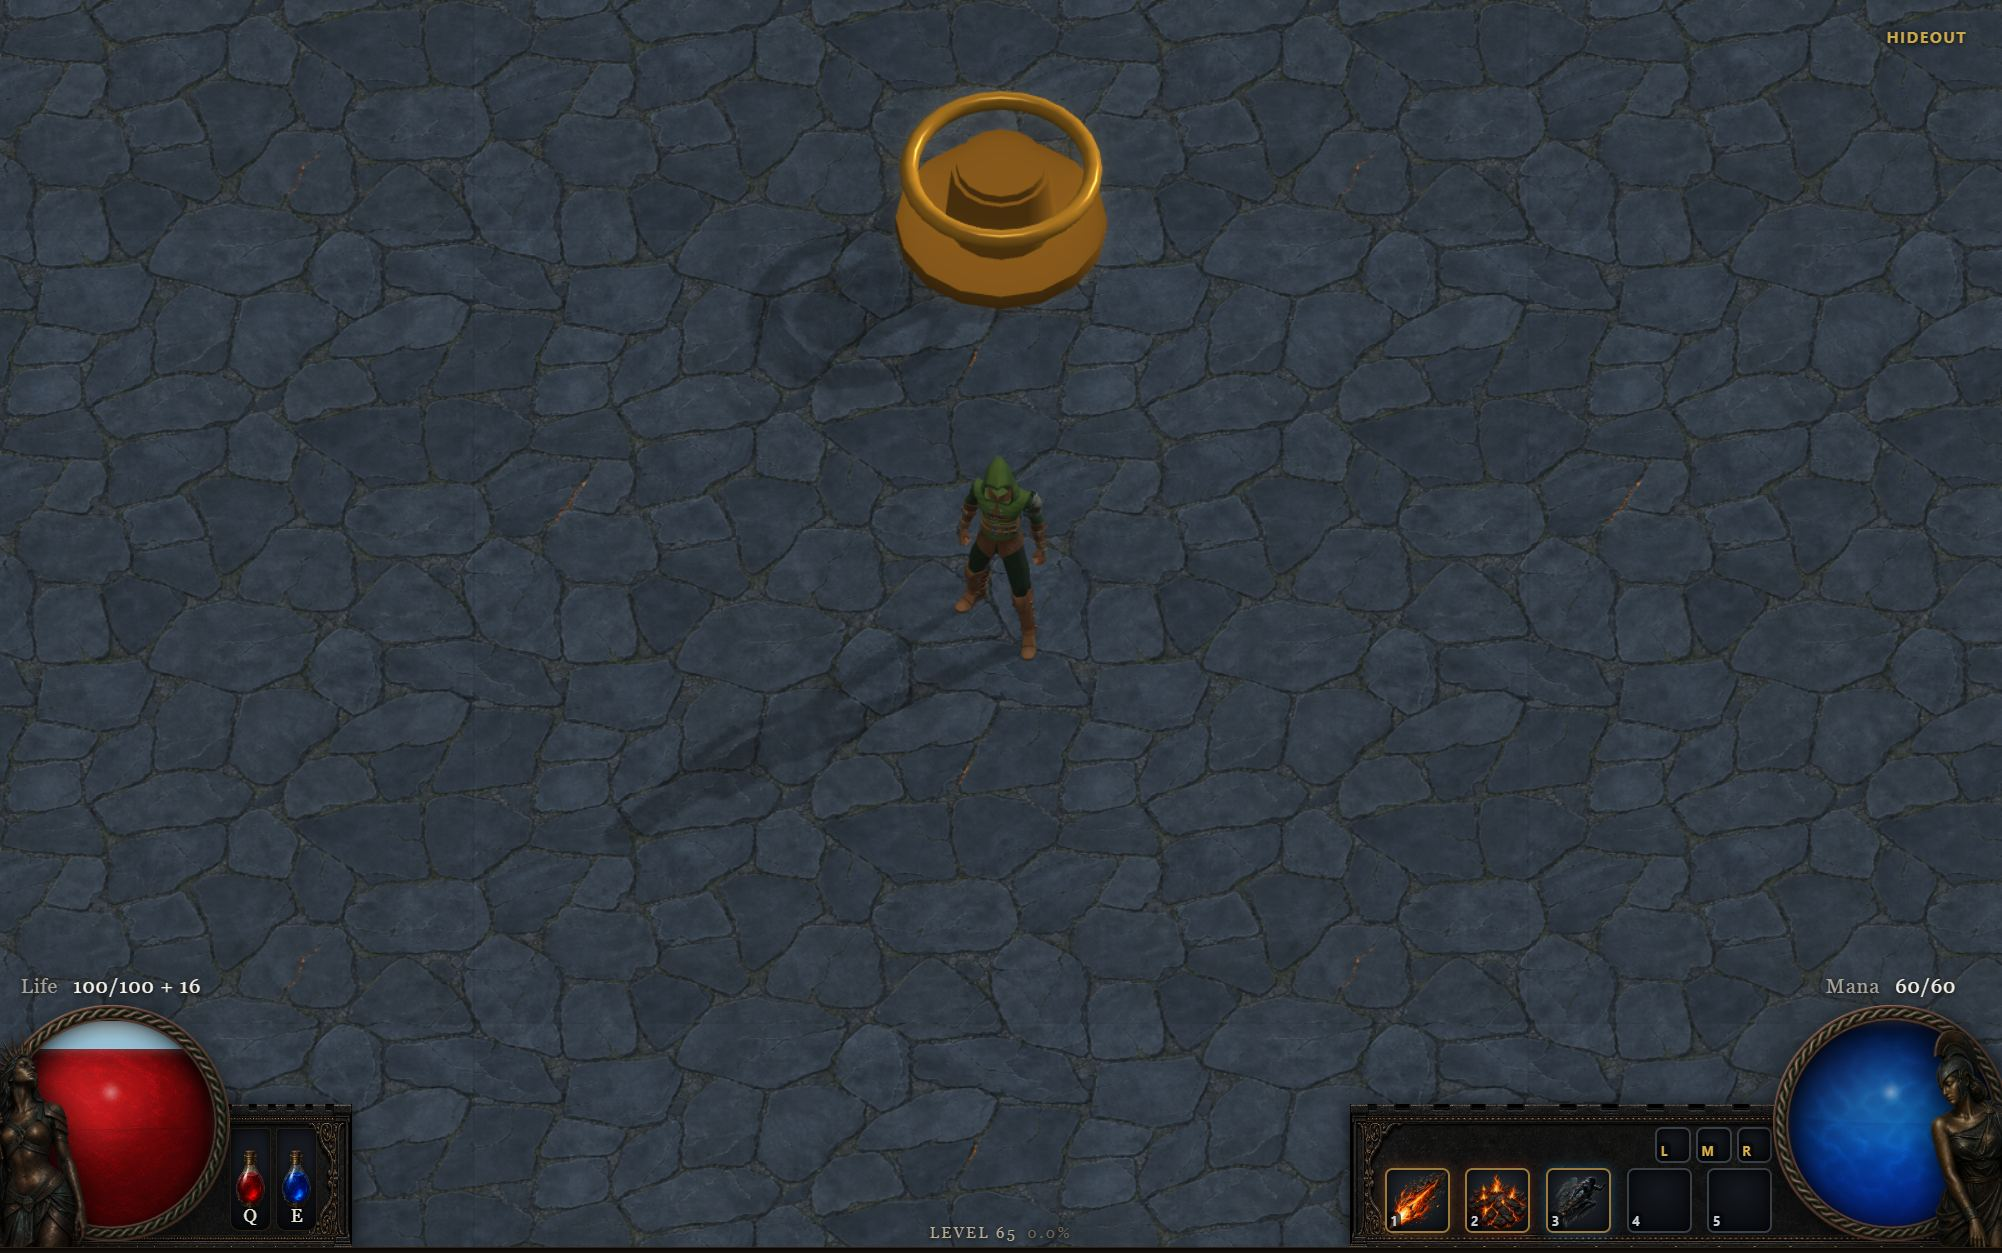
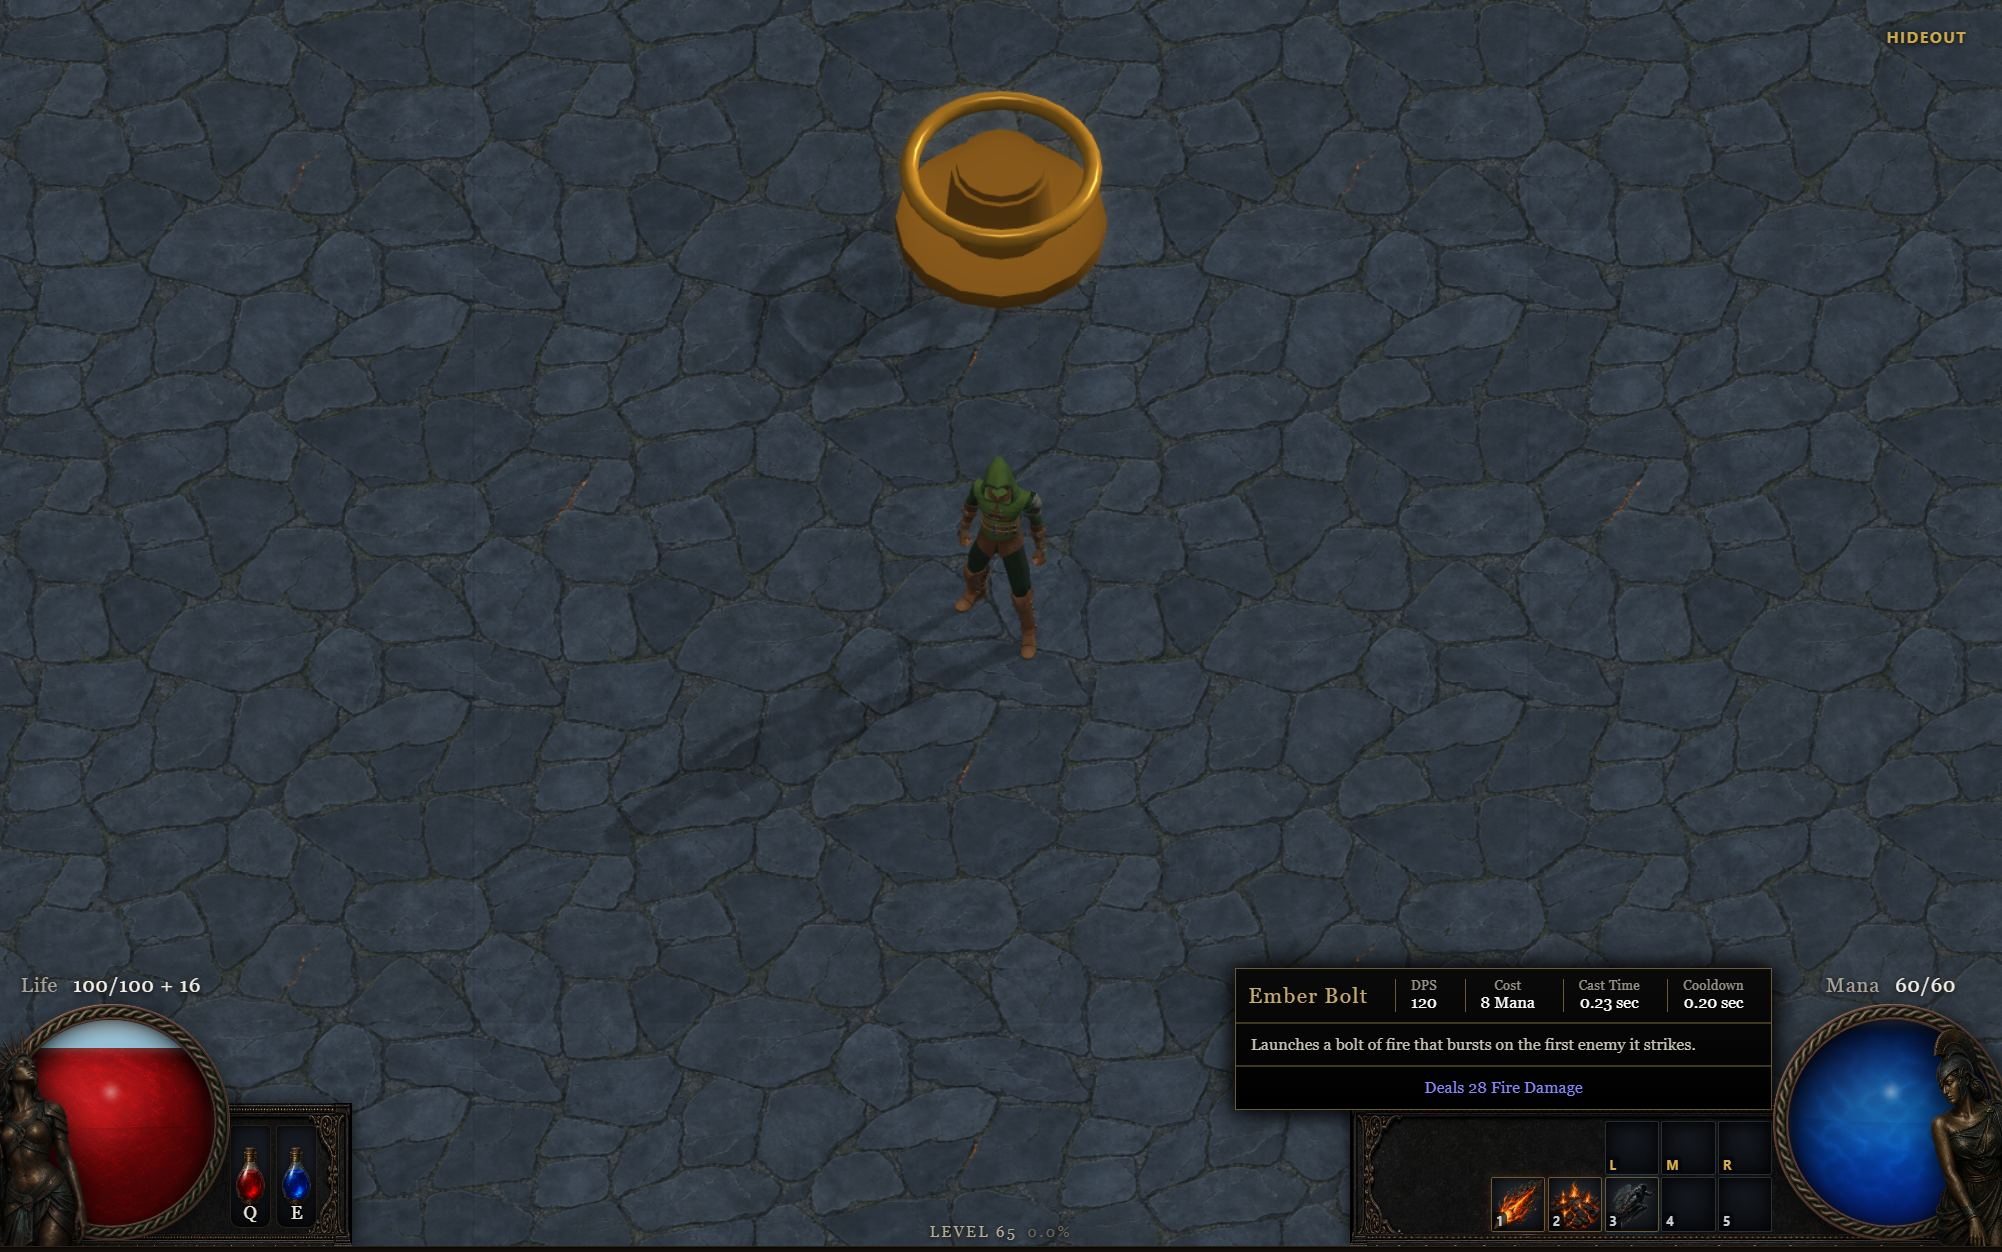
fix(ui): the bar goes back to the reference

Changed region(s): [[0.5884, 0.7476, 0.8981, 0.9968], [0.1239, 0.8722, 0.1858, 0.9034], [0.1239, 0.9345, 0.1548, 0.9657]]

diff --git a/apps/web/src/hud/Hud.tsx b/apps/web/src/hud/Hud.tsx
@@ -21,7 +21,7 @@ const RING_VW = (ORB_VW / ORB_HOLE - ORB_VW) / 2; // ring band thickness
 const ORB_INSET = "0.39vw"; // sphere offset from the side; the ring overhangs off-screen
 const BAR_SIDE = 28;
 // The border-image slices the frame art keeps for its own top and bottom edges.
-const BAR_TOP = 18;
+const BAR_TOP = 14;
 const BAR_BOTTOM = 16;
 const BAR_PAD_EXPR = `${ORB_INSET} + ${ORB} + ${RING_VW.toFixed(3)}vw - ${BAR_SIDE}px`;
 const ORB_BOTTOM = "2.1vh"; // sphere bottom above the screen edge
@@ -36,8 +36,7 @@ const FIGURE_OUT = "0.9vw"; // figure hangs off the screen side, covering ~30% o
 // above the numbered slots, it takes PoE1's full 0.72 and the tiles drop to its 0.22.
 // Exported because the inventory panel has to stop exactly where this starts.
 export const BAR_H = `${(ORB_VW * 0.72).toFixed(2)}vw`;
-const SLOT_GAP = 4; // px between tiles
-const MOUSE_RATIO = 0.55; // mouse tile, as a share of a numbered one
+const SLOT_GAP = 2; // px between tiles; PoE1 packs them against a hairline
 // The tiles fill the row instead of being their own fraction of the globe: the frame is
 // a fixed PANEL_W px wide while the globe padding beside it scales with the window, so a
 // vw-sized tile only fitted the space at one window width and left dead frame at others.
@@ -48,10 +47,8 @@ const MOUSE_RATIO = 0.55; // mouse tile, as a share of a numbered one
 // content box, or the bottom row runs off the screen edge.
 const SLOT = `min(
   calc((${PANEL_W}px - ${2 * BAR_SIDE}px - (${BAR_PAD_EXPR}) - ${4 * SLOT_GAP}px) / 5),
-  calc((${BAR_H} - ${BAR_TOP + BAR_BOTTOM}px - ${SLOT_GAP}px) / ${1 + MOUSE_RATIO})
+  calc((${BAR_H} - ${BAR_TOP + BAR_BOTTOM}px - ${SLOT_GAP}px) / 2)
 )`;
-/** PoE1 runs the mouse buttons as a thin strip over the full-size numbered slots. */
-const MOUSE_SLOT = `calc(${SLOT} * ${MOUSE_RATIO})`;
 const FLASK_W = `${(ORB_VW * 0.20).toFixed(2)}vw`;
 const FLASK_H = `${(ORB_VW * 0.50).toFixed(2)}vw`;
 // The border-image's own side slice. Named because the padding below has to
@@ -97,18 +94,18 @@ function SkillTile({ slot, n, cooldowns, onHover }: {
       onMouseEnter={() => onHover(slot.id)}
       onMouseLeave={() => onHover(null)}
       style={{
-        width: slot.mouse ? MOUSE_SLOT : SLOT,
-        height: slot.mouse ? MOUSE_SLOT : SLOT,
+        width: SLOT,
+        height: SLOT,
         position: "relative",
         overflow: "hidden",
         background: slot.icon
           ? "radial-gradient(circle at 50% 35%, #262c34, #0b0d11)"
           : "radial-gradient(circle at 50% 35%, #14171d, #07090c)",
-        border: `2px solid ${slot.icon && ready ? "#9c7b3a" : "#3a4048"}`,
-        borderRadius: 6,
+        border: `1px solid ${slot.icon && ready ? "#6b5a34" : "#2b3038"}`,
+        borderRadius: 2,
         boxShadow: slot.icon && ready
-          ? `0 0 10px ${slot.glow}55, inset 0 0 8px rgba(0,0,0,0.6)`
-          : "inset 0 0 8px rgba(0,0,0,0.7)",
+          ? `0 0 6px ${slot.glow}33, inset 0 0 10px rgba(0,0,0,0.75)`
+          : "inset 0 0 10px rgba(0,0,0,0.85)",
       }}
     >
       {slot.icon && (
@@ -250,12 +247,13 @@ const barStyle: React.CSSProperties = {
   gap: "0.25vw",
   borderStyle: "solid",
   borderWidth: `${BAR_TOP}px ${BAR_SIDE}px ${BAR_BOTTOM}px ${BAR_SIDE}px`,
-  // bar-panel-v2.png, 1024x209: v1 was flush-cut at both image edges, so a 9-slice
-  // ended it on a straight vertical line mid-merlon. v2 closes both ends with a
-  // corner tower over a pilaster over a stepped end-block, all inside the 78px side
-  // slice, so the panel terminates in the art instead of in a CSS fade.
-  borderImageSource: "url(/hud/bar-panel-v2.png)",
-  borderImageSlice: "50 78 44 78 fill",
+  // bar-panel-v3.png, 1024x185: v2 with its top 24 rows of merlons cut off. The
+  // battlement squeezed into a 14px border read as a dashed checkerboard against the
+  // world; PoE1's panel tops out in a plain stepped cornice over its gold rail, which
+  // is what is left underneath. Both ends still close in the art, inside the 78px side
+  // slice, rather than in a CSS fade.
+  borderImageSource: "url(/hud/bar-panel-v3.png)",
+  borderImageSlice: "26 78 44 78 fill",
   filter: "drop-shadow(0 2px 8px rgba(0,0,0,0.7))",
 };
 
@@ -687,9 +685,7 @@ export function Hud({ snapshot, hoveredEntityId = null }: HudProps) {
             <SkillTile key={slot.key} slot={slot} n={i + 6} cooldowns={cooldowns} onHover={setHoveredSkill} />
           ))}
         </div>
-        {/* Spread edge to edge: the frame is as wide as the inventory panel, wider than
-            five tiles the bar's height allows, and the slack read as dead frame beside them. */}
-        <div style={{ display: "flex", gap: `${SLOT_GAP}px`, alignSelf: "stretch", justifyContent: "space-between" }}>
+        <div style={{ display: "flex", gap: `${SLOT_GAP}px` }}>
           {SKILL_SLOTS.slice(0, 5).map((slot, i) => (
             <SkillTile key={slot.key} slot={slot} n={i + 1} cooldowns={cooldowns} onHover={setHoveredSkill} />
           ))}

diff --git a/apps/web/src/hud/SkillTooltip.tsx b/apps/web/src/hud/SkillTooltip.tsx
@@ -12,9 +12,9 @@ type Skill = NonNullable<Snapshot["skills"]>[number];
 /** One right-hand stat column: label over value, like PoE1's gem header. */
 function Stat({ label, value }: { label: string; value: string }) {
   return (
-    <div style={{ padding: "0 12px", borderLeft: `1px solid ${GOLD_DIM}`, textAlign: "center", minWidth: 62 }}>
+    <div style={{ padding: "0 12px", borderLeft: `1px solid ${GOLD_DIM}`, textAlign: "center" }}>
       <div style={{ fontSize: 10, color: PARCHMENT, opacity: 0.75, letterSpacing: 0.5 }}>{label}</div>
-      <div style={{ fontSize: 13, color: "#fff" }}>{value}</div>
+      <div style={{ fontSize: 13, color: "#fff", whiteSpace: "nowrap" }}>{value}</div>
     </div>
   );
 }

diff --git a/devlog/README.md b/devlog/README.md
@@ -164,6 +164,6 @@ The orbs stop being CSS.
 <td width="33%"><img src="screenshots/2026-07-26-skill-tooltip.jpeg" alt="Skill tooltip above the bar" width="100%"><br><sub><b>A skill says what it costs</b> - hovering a socket now opens the PoE1 gem tooltip above the bar: name in gold on the left, then a row of columns divided by hairlines for DPS, cost, cast time and cooldown, the description in parchment under a rule, and the modifier lines centred in periwinkle. It is anchored to the bar rather than to the cursor, which is where PoE1 pins it, so it holds still while you sweep across the sockets. Every number in it is computed sim-side and shipped in the snapshot, because the client can see neither the offence component nor fixed-point content, and a second copy of the arithmetic would drift from what casting actually does - the 0.23 sec cast is 8 ticks divided by the cast speed the gear rolled, and the 28 fire damage is the 25 base scaled by spell damage. Empty sockets and the three mouse buttons show nothing; there is nothing bound to them yet.</sub></td>
 </tr>
 <tr>
-<td width="33%"><img src="screenshots/2026-07-26-skill-tiles-fill-the-bar.jpeg" alt="Skill tiles filling the bar frame" width="100%"><br><sub><b>The slots fill the frame they were given</b> - matching the bar to the inventory panel made the frame a fixed 522px while everything inside it was still a fraction of the globe, so the tiles only fitted that width at one window size and left a band of dead frame at every other. A tile is now the smaller of two budgets: what is left of the 522 after the mana globe overlaps it, and half of the bar's own inner height. The mouse row shrank to 0.55 of a numbered slot, which is how PoE1 runs it, and that slack is what let the numbered tiles grow by a third. The numbered row spreads edge to edge, so at 1600px the five slots go from 38.6px to 52.2px with no frame left over on either side, and at 2048px they sit tight at 48.6px. The bar height stays at PoE1's 0.72 of a globe.</sub></td>
+<td width="33%"><img src="screenshots/2026-07-26-skill-tiles-fill-the-bar.jpeg" alt="Skill bar rebuilt against the PoE1 reference" width="100%"><br><sub><b>The bar goes back to the reference</b> - side by side with <code>poe1-lower-bar.png</code> ours had three things wrong. The frame art topped out in a row of merlons that, squeezed into a 14px border, read as a dashed checkerboard against the world; PoE1 tops out in a plain stepped cornice over a gold rail, which is exactly what is left after cutting the top 24 rows off the texture (<code>bar-panel-v3.png</code>). The tiles were sized as a fraction of the globe while the frame is a fixed 522px, so they only fitted at one window width and at others overflowed the frame and clipped at the screen edge; a tile is now the smaller of the width left beside the globe and half the bar's inner height. And both rows are the same size again, packed against a 2px rule and sharing a right edge, which is how PoE1 has them - the earlier attempt to buy height by shrinking the mouse row was invention. Sockets lost the bright gold border and the 6px radius for PoE1's recessed dark square with a thin bronze rule. Still missing from that reference: PoE1 fills the panel's left third with its shop and info buttons, so ours has bare stone there.</sub></td>
 </tr>
 </table>
